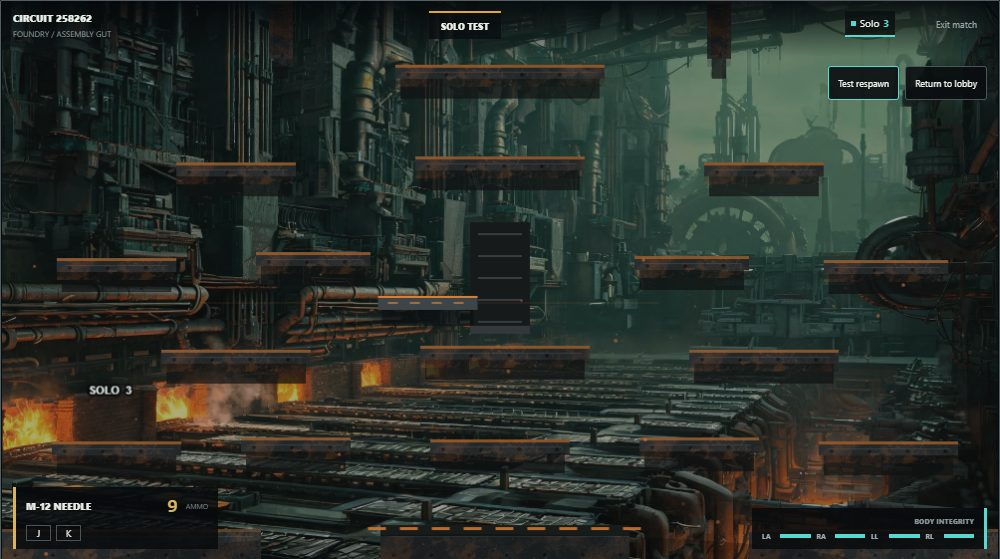
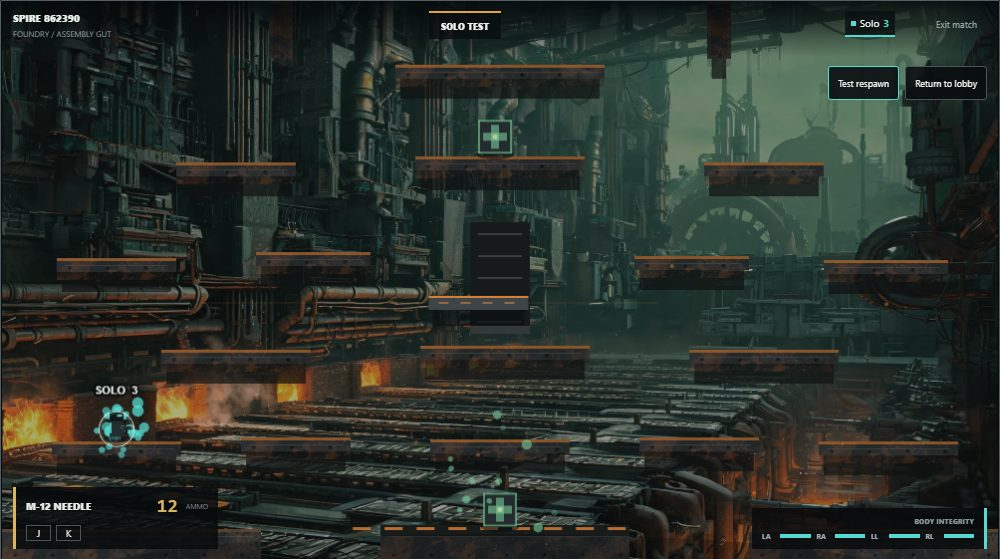
Rename the game to Spirefall ahead of the public GitHub release
The working title "Mayhem Circuit" borrowed "Mayhem" directly from the
reference title Gun Mayhem Redux; a public clean-room release should not
echo the original brand. Spirefall keeps the game own identity: one
vertical industrial spire, three sectors, and the fall that decides every
match.

Sweep: menu brand header and mark, ENTER THE SPIRE tagline, JOIN ACTIVE
SPIRE, Active spire, Leave spire (lobby + results), Spire resolved, HOLDS
THE SPIRE, HUD SPIRE room label and SPIRE RESOLVED phase, index.html
title and meta description, package.json / package-lock name, server
banners, localStorage keys (spirefall-session, spirefall-visuals), and
the SPIREFALL_WS test env override. docs/ORIGINAL_BEHAVIOR.md keeps the
original reference title as the clean-room record.

README gallery screenshots regenerated from post-rename test captures,
and docs/PROGRESS.md records the rename round.

Origin: ai:glm-5.3-flash-dsh

diff --git a/src/main.ts b/src/main.ts
@@ -67,7 +67,7 @@ app.innerHTML = `
   <div class="app-backdrop" aria-hidden="true"><div></div><i></i><i></i><i></i></div>
   <section class="shell">
     <header class="command-bar">
-      <div class="brand"><span class="brand-mark"><i></i><b>M</b></span><div><p>BRUTAL ARENA SYSTEM</p><h1>Mayhem Circuit</h1></div></div>
+      <div class="brand"><span class="brand-mark"><i></i><b>S</b></span><div><p>BRUTAL ARENA SYSTEM</p><h1>Spirefall</h1></div></div>
       <div class="command-meta"><span id="status" class="status">OFFLINE</span><button id="settings-button" class="icon-command" title="Visual settings" aria-expanded="false">FX</button></div>
       <div id="visual-settings" class="visual-settings hidden">
         <p class="eyebrow">Visual output</p>
@@ -78,12 +78,12 @@ app.innerHTML = `
 
     <main>
       <section id="menu" class="menu-screen">
-        <div class="menu-intro"><p class="kicker">NETWORK COMBAT / 01-04 PILOTS</p><h2>ENTER THE<br><span>MEGASTRUCTURE</span></h2><p>Every sector is still alive. Every machine is hostile.</p><div class="signal-line"><i></i><span>SERVER-LINK READY</span></div></div>
+        <div class="menu-intro"><p class="kicker">NETWORK COMBAT / 01-04 PILOTS</p><h2>ENTER THE<br><span>SPIRE</span></h2><p>Every sector is still alive. Every machine is hostile.</p><div class="signal-line"><i></i><span>SERVER-LINK READY</span></div></div>
         <div class="access-console">
           <div class="console-head"><span>ACCESS NODE 07</span><small>ENCRYPTED LAN</small></div>
           <label class="field" for="name"><span>Pilot callsign</span><input id="name" maxlength="16" value="Player" autocomplete="off" /></label>
           <button id="create" class="primary wide">Create room</button>
-          <div class="join-divider"><span>JOIN ACTIVE CIRCUIT</span></div>
+          <div class="join-divider"><span>JOIN ACTIVE SPIRE</span></div>
           <div class="join-row"><input id="room-code" inputmode="numeric" maxlength="6" placeholder="000000" aria-label="Room code" /><button id="join">Join</button></div>
           <p id="error" class="error" role="alert"></p>
           <div class="control-strip"><span>A/D MOVE</span><span>W JUMP</span><span>J PRIMARY</span><span>K SECONDARY</span></div>
@@ -91,14 +91,14 @@ app.innerHTML = `
       </section>
 
       <section id="lobby" class="lobby-screen hidden">
-        <div class="lobby-header"><div><p class="eyebrow">Active circuit</p><div class="room-code"><strong id="room-label">------</strong><button id="copy-code" title="Copy room code">Copy</button></div></div><div class="lobby-state"><i></i><span>PRIVATE LAN SESSION</span></div></div>
+        <div class="lobby-header"><div><p class="eyebrow">Active spire</p><div class="room-code"><strong id="room-label">------</strong><button id="copy-code" title="Copy room code">Copy</button></div></div><div class="lobby-state"><i></i><span>PRIVATE LAN SESSION</span></div></div>
         <div class="lobby-console">
           <section class="roster-column"><div class="section-title"><span>01</span><div><p>DEPLOYMENT</p><h3>Pilot roster</h3></div></div><div id="players" class="players"></div><p id="lobby-note" class="lobby-note"></p></section>
           <section class="map-column"><div class="section-title"><span>02</span><div><p>LOCATION</p><h3>Sector feed</h3></div></div><div id="map-visual" class="map-visual" data-map="canopy"><div class="map-noise"></div><div class="map-frame"><span id="map-index">SECTOR 01</span><strong id="map-title">THE CROWN</strong><small id="map-brief">Freight lifts drift above the storm line.</small></div></div></section>
           <section class="settings-column"><div class="section-title"><span>03</span><div><p>PARAMETERS</p><h3>Match control</h3></div></div><div class="settings"><label>Sector<select id="map"><option value="canopy">Canopy</option><option value="fortress">Fortress</option><option value="factory">Factory</option></select></label><label>Lives<select id="lives"><option>1</option><option>2</option><option selected>3</option><option>4</option><option>5</option></select></label><label class="toggle"><input id="crates" type="checkbox" checked /><span></span> Supply drops</label><label>AI pilots<select id="bots"><option value="0">Off</option><option value="1">1</option><option value="2">2</option><option value="3">3</option></select></label><label>Skill<select id="bot-skill"><option value="casual">Casual</option><option value="standard" selected>Standard</option><option value="brutal">Brutal</option></select></label></div></section>
         </div>
         <section class="loadout-strip"><div class="section-title compact"><span>04</span><div><p>ARMORY</p><h3>Authorized loadout</h3></div></div><div id="weapon-options" class="weapon-options">${weaponOptions}</div></section>
-        <div class="lobby-actions"><div><button id="start" class="primary">Start match</button><button id="solo-test">Solo test</button></div><button id="leave" class="quiet">Leave circuit</button></div>
+        <div class="lobby-actions"><div><button id="start" class="primary">Start match</button><button id="solo-test">Solo test</button></div><button id="leave" class="quiet">Leave spire</button></div>
       </section>
 
       <div id="game-wrap" class="game-wrap hidden">
@@ -110,7 +110,7 @@ app.innerHTML = `
           <button id="in-match-leave" class="quiet hud-leave">Exit match</button>
         </div>
         <div id="sandbox-actions" class="game-actions hidden"><button id="sandbox-respawn">Test respawn</button><button id="sandbox-return">Return to lobby</button></div>
-        <div id="result" class="result hidden"><div class="result-signal"></div><p class="eyebrow">Circuit resolved</p><h2 id="winner"></h2><p>ONE PILOT REMAINS</p><div><button id="restart" class="primary">Return to lobby</button><button id="result-leave">Leave circuit</button></div></div>
+        <div id="result" class="result hidden"><div class="result-signal"></div><p class="eyebrow">Spire resolved</p><h2 id="winner"></h2><p>ONE PILOT REMAINS</p><div><button id="restart" class="primary">Return to lobby</button><button id="result-leave">Leave spire</button></div></div>
       </div>
     </main>
   </section>`;
@@ -132,7 +132,7 @@ let manualConnectionAction = false;
 let resumeAttempted = false;
 const availablePortraits = new Set<number>();
 
-const savedVisuals = JSON.parse(localStorage.getItem("mayhem-visuals") || "null");
+const savedVisuals = JSON.parse(localStorage.getItem("spirefall-visuals") || "null");
 const visualPrefs = { gore: savedVisuals?.gore !== false, shake: savedVisuals?.shake !== false };
 $<HTMLInputElement>("gore-toggle").checked = visualPrefs.gore;
 $<HTMLInputElement>("shake-toggle").checked = visualPrefs.shake;
@@ -155,7 +155,7 @@ function connect() {
     setStatus("Linked", "good");
     if (!resumeAttempted && !manualConnectionAction) {
       resumeAttempted = true;
-      const saved = JSON.parse(localStorage.getItem("mayhem-session") || "null");
+      const saved = JSON.parse(localStorage.getItem("spirefall-session") || "null");
       if (saved?.roomCode && saved?.token && saved?.selfId) {
         socket!.send(JSON.stringify({ type: "join", roomCode: saved.roomCode, name: $<HTMLInputElement>("name").value, token: saved.token, playerId: saved.selfId }));
       }
@@ -233,7 +233,7 @@ function handleMessage(message: any) {
       token = message.token;
       selfId = message.selfId || selfId;
       roomCode = message.room.code;
-      localStorage.setItem("mayhem-session", JSON.stringify({ token, selfId, roomCode }));
+      localStorage.setItem("spirefall-session", JSON.stringify({ token, selfId, roomCode }));
     }
     if (message.room) {
       enterLobby(message.room);
@@ -275,7 +275,7 @@ $("create").addEventListener("click", () => {
 $("join").addEventListener("click", () => {
   manualConnectionAction = true;
   showError("");
-  const saved = JSON.parse(localStorage.getItem("mayhem-session") || "null");
+  const saved = JSON.parse(localStorage.getItem("spirefall-session") || "null");
   const requestedCode = $<HTMLInputElement>("room-code").value.trim();
   send("join", { roomCode: requestedCode, name: $<HTMLInputElement>("name").value, token: saved?.roomCode === requestedCode ? saved.token : undefined, playerId: saved?.roomCode === requestedCode ? saved.selfId : undefined });
 });
@@ -294,7 +294,7 @@ $("in-match-leave").addEventListener("click", leaveRoom);
 function leaveRoom() {
   manualConnectionAction = true;
   send("leave_room");
-  localStorage.removeItem("mayhem-session");
+  localStorage.removeItem("spirefall-session");
   token = "";
   selfId = "";
   roomCode = "";
@@ -324,7 +324,7 @@ for (const id of ["gore-toggle", "shake-toggle"]) {
   $(id).addEventListener("change", () => {
     visualPrefs.gore = $<HTMLInputElement>("gore-toggle").checked;
     visualPrefs.shake = $<HTMLInputElement>("shake-toggle").checked;
-    localStorage.setItem("mayhem-visuals", JSON.stringify(visualPrefs));
+    localStorage.setItem("spirefall-visuals", JSON.stringify(visualPrefs));
     scene?.setVisualPreferences();
   });
 }
@@ -469,7 +469,7 @@ class ArenaScene extends Phaser.Scene {
     const winnerEntry = snapshot.players.find((player) => player.name === snapshot.winner);
     const subtitle = $("result").querySelector("p:last-of-type") as HTMLElement | null;
     if (winnerEntry?.isBot) {
-      if (subtitle) { subtitle.textContent = `DEFEATED — ${snapshot.winner} HOLDS THE CIRCUIT`; subtitle.classList.add("defeated"); }
+      if (subtitle) { subtitle.textContent = `DEFEATED — ${snapshot.winner} HOLDS THE SPIRE`; subtitle.classList.add("defeated"); }
       $("result").classList.add("bot-victory");
     } else {
       if (subtitle) { subtitle.textContent = "ONE PILOT REMAINS"; subtitle.classList.remove("defeated"); }
@@ -506,9 +506,9 @@ class ArenaScene extends Phaser.Scene {
   private updateHud(snapshot: ServerSnapshot) {
     const mine = snapshot.players.find((player) => player.id === selfId);
     const map = MAPS[snapshot.config.mapId];
-    $("hud-room").textContent = roomCode ? `CIRCUIT ${roomCode}` : "";
+    $("hud-room").textContent = roomCode ? `SPIRE ${roomCode}` : "";
     $("hud-sector").textContent = map.sector;
-    $("hud-phase").textContent = snapshot.mode === "sandbox" ? "SOLO TEST" : snapshot.phase === "results" ? "CIRCUIT RESOLVED" : "LIVE";
+    $("hud-phase").textContent = snapshot.mode === "sandbox" ? "SOLO TEST" : snapshot.phase === "results" ? "SPIRE RESOLVED" : "LIVE";
     $("hud-roster").innerHTML = snapshot.players.map((player) => `<span style="--pilot:${colorCss(player.color)}" class="${player.lives <= 0 ? "out" : ""}"><i></i>${escapeHtml(player.name)}${player.isBot ? " <small>[BOT]</small>" : ""} <b>${player.lives}</b></span>`).join("");
     if (!mine) return;
     const weapon = WEAPONS[mine.weapon];

diff --git a/tests/browser-smoke.ts b/tests/browser-smoke.ts
@@ -75,7 +75,7 @@ await solo.locator("#weapon-panel.hidden").waitFor({ state: "attached", timeout:
 await solo.locator("#settings-button").click();
 await solo.locator("label").filter({ has: solo.locator("#gore-toggle") }).click();
 await solo.locator("label").filter({ has: solo.locator("#shake-toggle") }).click();
-const visualPrefs = await solo.evaluate(() => JSON.parse(localStorage.getItem("mayhem-visuals") || "null"));
+const visualPrefs = await solo.evaluate(() => JSON.parse(localStorage.getItem("spirefall-visuals") || "null"));
 if (visualPrefs?.gore !== false || visualPrefs?.shake !== false) throw new Error("Visual preferences were not persisted");
 await solo.locator("#settings-button").click();
 await solo.locator("#sandbox-return").click();

diff --git a/server/server.ts b/server/server.ts
@@ -762,7 +762,7 @@ function broadcastSnapshot(room: Room) {
 
 const http = createServer((_request, response) => {
   response.writeHead(200, { "content-type": "text/plain" });
-  response.end("Mayhem server is running\n");
+  response.end("Spirefall server is running\n");
 });
 const wss = new WebSocketServer({ server: http });
 
@@ -800,4 +800,4 @@ setInterval(() => {
 }, 1000 / WORLD.tickRate);
 
 const port = Number(process.env.PORT || 8787);
-http.listen(port, "0.0.0.0", () => console.log(`Mayhem server listening on http://0.0.0.0:${port}`));
+http.listen(port, "0.0.0.0", () => console.log(`Spirefall server listening on http://0.0.0.0:${port}`));

diff --git a/index.html b/index.html
@@ -3,7 +3,8 @@
   <head>
     <meta charset="UTF-8" />
     <meta name="viewport" content="width=device-width, initial-scale=1.0" />
-    <title>Mayhem Circuit</title>
+    <title>Spirefall</title>
+    <meta name="description" content="Spirefall — a browser arena shooter set inside a decaying industrial megastructure. Four pilots, three sectors, knock them off the spire." />
   </head>
   <body>
     <main id="app"></main>

diff --git a/tests/network-smoke.ts b/tests/network-smoke.ts
@@ -14,7 +14,7 @@ const waitFor = (ws: WebSocket, type: string, timeout = 4000) => new Promise<Mes
   ws.on("message", handler);
 });
 const open = () => new Promise<WebSocket>((resolve, reject) => {
-  const ws = new WebSocket(process.env.MAYHEM_WS || "ws://127.0.0.1:8787");
+  const ws = new WebSocket(process.env.SPIREFALL_WS || "ws://127.0.0.1:8787");
   ws.once("open", () => resolve(ws));
   ws.once("error", reject);
 });

diff --git a/docs/PROGRESS.md b/docs/PROGRESS.md
@@ -1,4 +1,4 @@
-# Mayhem Circuit 开发进度交接文档
+# Spirefall 开发进度交接文档
 
 > 更新时间：2026-08-23
 > 本文档由 Claude Code 从 Codex 会话 `01a013e4`（2026-08-18，4.8 MB）及磁盘实际状态整理而成，2026-08-23 由 Claude Code 接手后续开发。
@@ -6,7 +6,7 @@
 
 ## 1. 项目定位
 
-- **项目名**：Mayhem Circuit（原 Gun Mayhem Redux 清洁室重做）
+- **项目名**：Spirefall（2026-08-23 由开发代号 Mayhem Circuit 更名，为公开发布与原作《Gun Mayhem Redux》保持品牌距离；原 Gun Mayhem Redux 清洁室重做）
 - **目标**：浏览器联机竞技场游戏，贴近原版手感；第一版只做 4 人自定义对战
 - **清洁室边界（硬约束）**：原版 SWF（`temp_folder/english.swf`）仅作只读行为参考。禁止提取、描摹、模仿、再分发其美术/音频/字体/logo/品牌。所有运行时美术必须原创。
 - **用户角色**：用户只提需求和验收，开发由 AI 完成。
@@ -122,6 +122,17 @@ public/assets/             仅 README —— 生成位图尚未产出（缺 OPEN
   - 新增回归测试：淘汰冻结（无重复死亡事件、无负命、即时结算）+ leave_room 即时移除
 - 全量回归通过（logic/smoke×3/browser/visual/performance 78.5 FPS）
 
+### M11 更名 Spirefall + 公开发布准备（2026-08-23，Claude Code 发起 / DSH 收尾）
+
+用户决定公开发布 GitHub，要求更名以与原作《Gun Mayhem Redux》保持品牌距离（旧名 Mayhem 中的 "Mayhem" 直接取自原作标题）。候选经搜索查重后用户拍板 **Spirefall**。
+
+- 全套替换：菜单品牌头（M→S 标记，Mayhem Circuit→Spirefall）、主标语 ENTER THE SPIRE、JOIN ACTIVE SPIRE、Active spire、两处 Leave spire、Spire resolved、HOLDS THE SPIRE、HUD 的 SPIRE 前缀与 SPIRE RESOLVED、index.html 标题+meta 描述、package.json/package-lock 名（spirefall）、服务器横幅（Spirefall server）、localStorage 键（spirefall-session / spirefall-visuals）、测试环境变量 MAYHEM_WS→SPIREFALL_WS
+- 保留：docs/ORIGINAL_BEHAVIOR.md 的原作参考标题（清洁室记录）、PROGRESS 历史章节中的旧名（历史事实）；房间码概念改名 "SPIRE xxxxxx"
+- README 画廊 7 张截图全部用改名后跑出的新测试截图重新生成
+- 开发环境切换：Claude Code → DSH（模型 glm-5.3-flash），本节后续提交 trailer 为 `Origin: ai:glm-5.3-flash-dsh`
+- 全量回归通过（tsc/logic/smoke/browser/visual/performance 103.4 FPS）
+- 发布建议：GitHub 仓库名用 `spirefall`；README 已含截图画廊与完整说明
+
 ## 4. 当前真实状态（2026-08-23 第三轮核验）
 
 - ✅ Git：master @ `1e8ccbd`（M9 已提交），工作区含 M10 修复待提交（server/main/style/network-smoke/PROGRESS）
@@ -132,8 +143,8 @@ public/assets/             仅 README —— 生成位图尚未产出（缺 OPEN
 
 ## 5. 未完成事项 / 下一步候选
 
-1. **M10 修复提交**：用户已验收问题不大，待确认 provenance（模型名+agent 名+纯 AI/AI 辅助分类）后带 `Origin:` trailer 提交
-2. **用户复验两个 bug 修复**：对局中右上角 Exit match 可真正退出回主菜单；机器人被淘汰后不再反复血迹震动，比赛正常结算出 winner 界面
+1. **GitHub 发布**：新建仓库 `spirefall` 推送本仓库；README 已就绪（截图画廊+完整说明）
+2. **用户复验 M10 两个 bug 修复**：对局中右上角 Exit match 可真正退出回主菜单；机器人被淘汰后不再反复血迹震动，比赛正常结算出 winner 界面
 3. **用户目检 10 张新资产**：打开 `public/assets/` 或直接跑游戏看三张地图背景与大厅肖像；不满意的单张可重跑对应提示词再替换（管线已就绪，见 ART_DIRECTION.md 生成管线说明）
 4. **联机第一版验收**：4 人自定义对战完整流程由用户组织验收
 5. 若未来真实玩家反馈战斗卡顿，再考虑静态层烘焙优化（平台层仍每帧重绘）；当前证据表明客户端渲染预算非常充裕

diff --git a/README.md b/README.md
@@ -1,10 +1,10 @@
-# Mayhem Circuit
+# Spirefall
 
 <p align="center">
   <img src="docs/screenshots/match.jpg" alt="A live Fortress duel with tracers, weapon HUD, and body integrity readout" width="840">
 </p>
 
-A clean-room browser arena game set inside a decaying brutalist industrial megastructure. Four pilots battle across three connected sectors of one vertical structure — storm-lashed canopy, defense spine, and foundry floor — with server-authoritative physics, weapons, hazards, and dismemberment. The original SWF is used only as a read-only behavioral reference; no original art, audio, branding, or code is shipped by this project.
+**Spirefall** is a clean-room browser arena shooter set inside a decaying brutalist megastructure. Four pilots battle across three sectors of one vertical spire — storm-lashed canopy, defense spine, and foundry floor — with server-authoritative physics, weapons, hazards, and dismemberment. Knock every rival off the structure; the last pilot standing holds the spire. The original SWF is used only as a read-only behavioral reference; no original art, audio, branding, or code is shipped by this project.
 
 ## Screenshots
 
@@ -32,7 +32,7 @@ For LAN play, other players open `http://<host-ip>:5173` and enter the six-digit
 
 For one-player setup and feel checks, create a room and choose **Solo test**. The sandbox uses the selected map, lives, crates, and weapon set, respawns after falls without declaring a winner, offers a `Test respawn` control, and can return directly to the lobby. Normal multiplayer matches still require at least two pilots.
 
-**Leaving a room** — `Leave circuit` (lobby), `Exit match` (in-game HUD), and `Leave circuit` (results screen) all exit immediately: the slot is released server-side with no reconnect hold, the local session is cleared, and the browser returns to the main menu.
+**Leaving a room** — `Leave spire` (lobby), `Exit match` (in-game HUD), and `Leave spire` (results screen) all exit immediately: the slot is released server-side with no reconnect hold, the local session is cleared, and the browser returns to the main menu.
 
 ## Game systems
 

diff --git a/public/assets/README.md b/public/assets/README.md
@@ -1,6 +1,6 @@
 # Generated runtime art
 
-Original Mayhem Circuit runtime art described in `docs/ART_DIRECTION.md`. All images here are original generations produced from the clean-room prompts in that document (Volcengine Ark / doubao-seedream-5.0-lite); nothing was extracted or traced from the reference SWF.
+Original Spirefall runtime art described in `docs/ART_DIRECTION.md`. All images here are original generations produced from the clean-room prompts in that document (Volcengine Ark / doubao-seedream-5.0-lite); nothing was extracted or traced from the reference SWF.
 
 Contents:
 

diff --git a/docs/ART_DIRECTION.md b/docs/ART_DIRECTION.md
@@ -1,4 +1,4 @@
-# Mayhem Circuit art direction
+# Spirefall art direction
 
 ## Clean-room boundary
 
